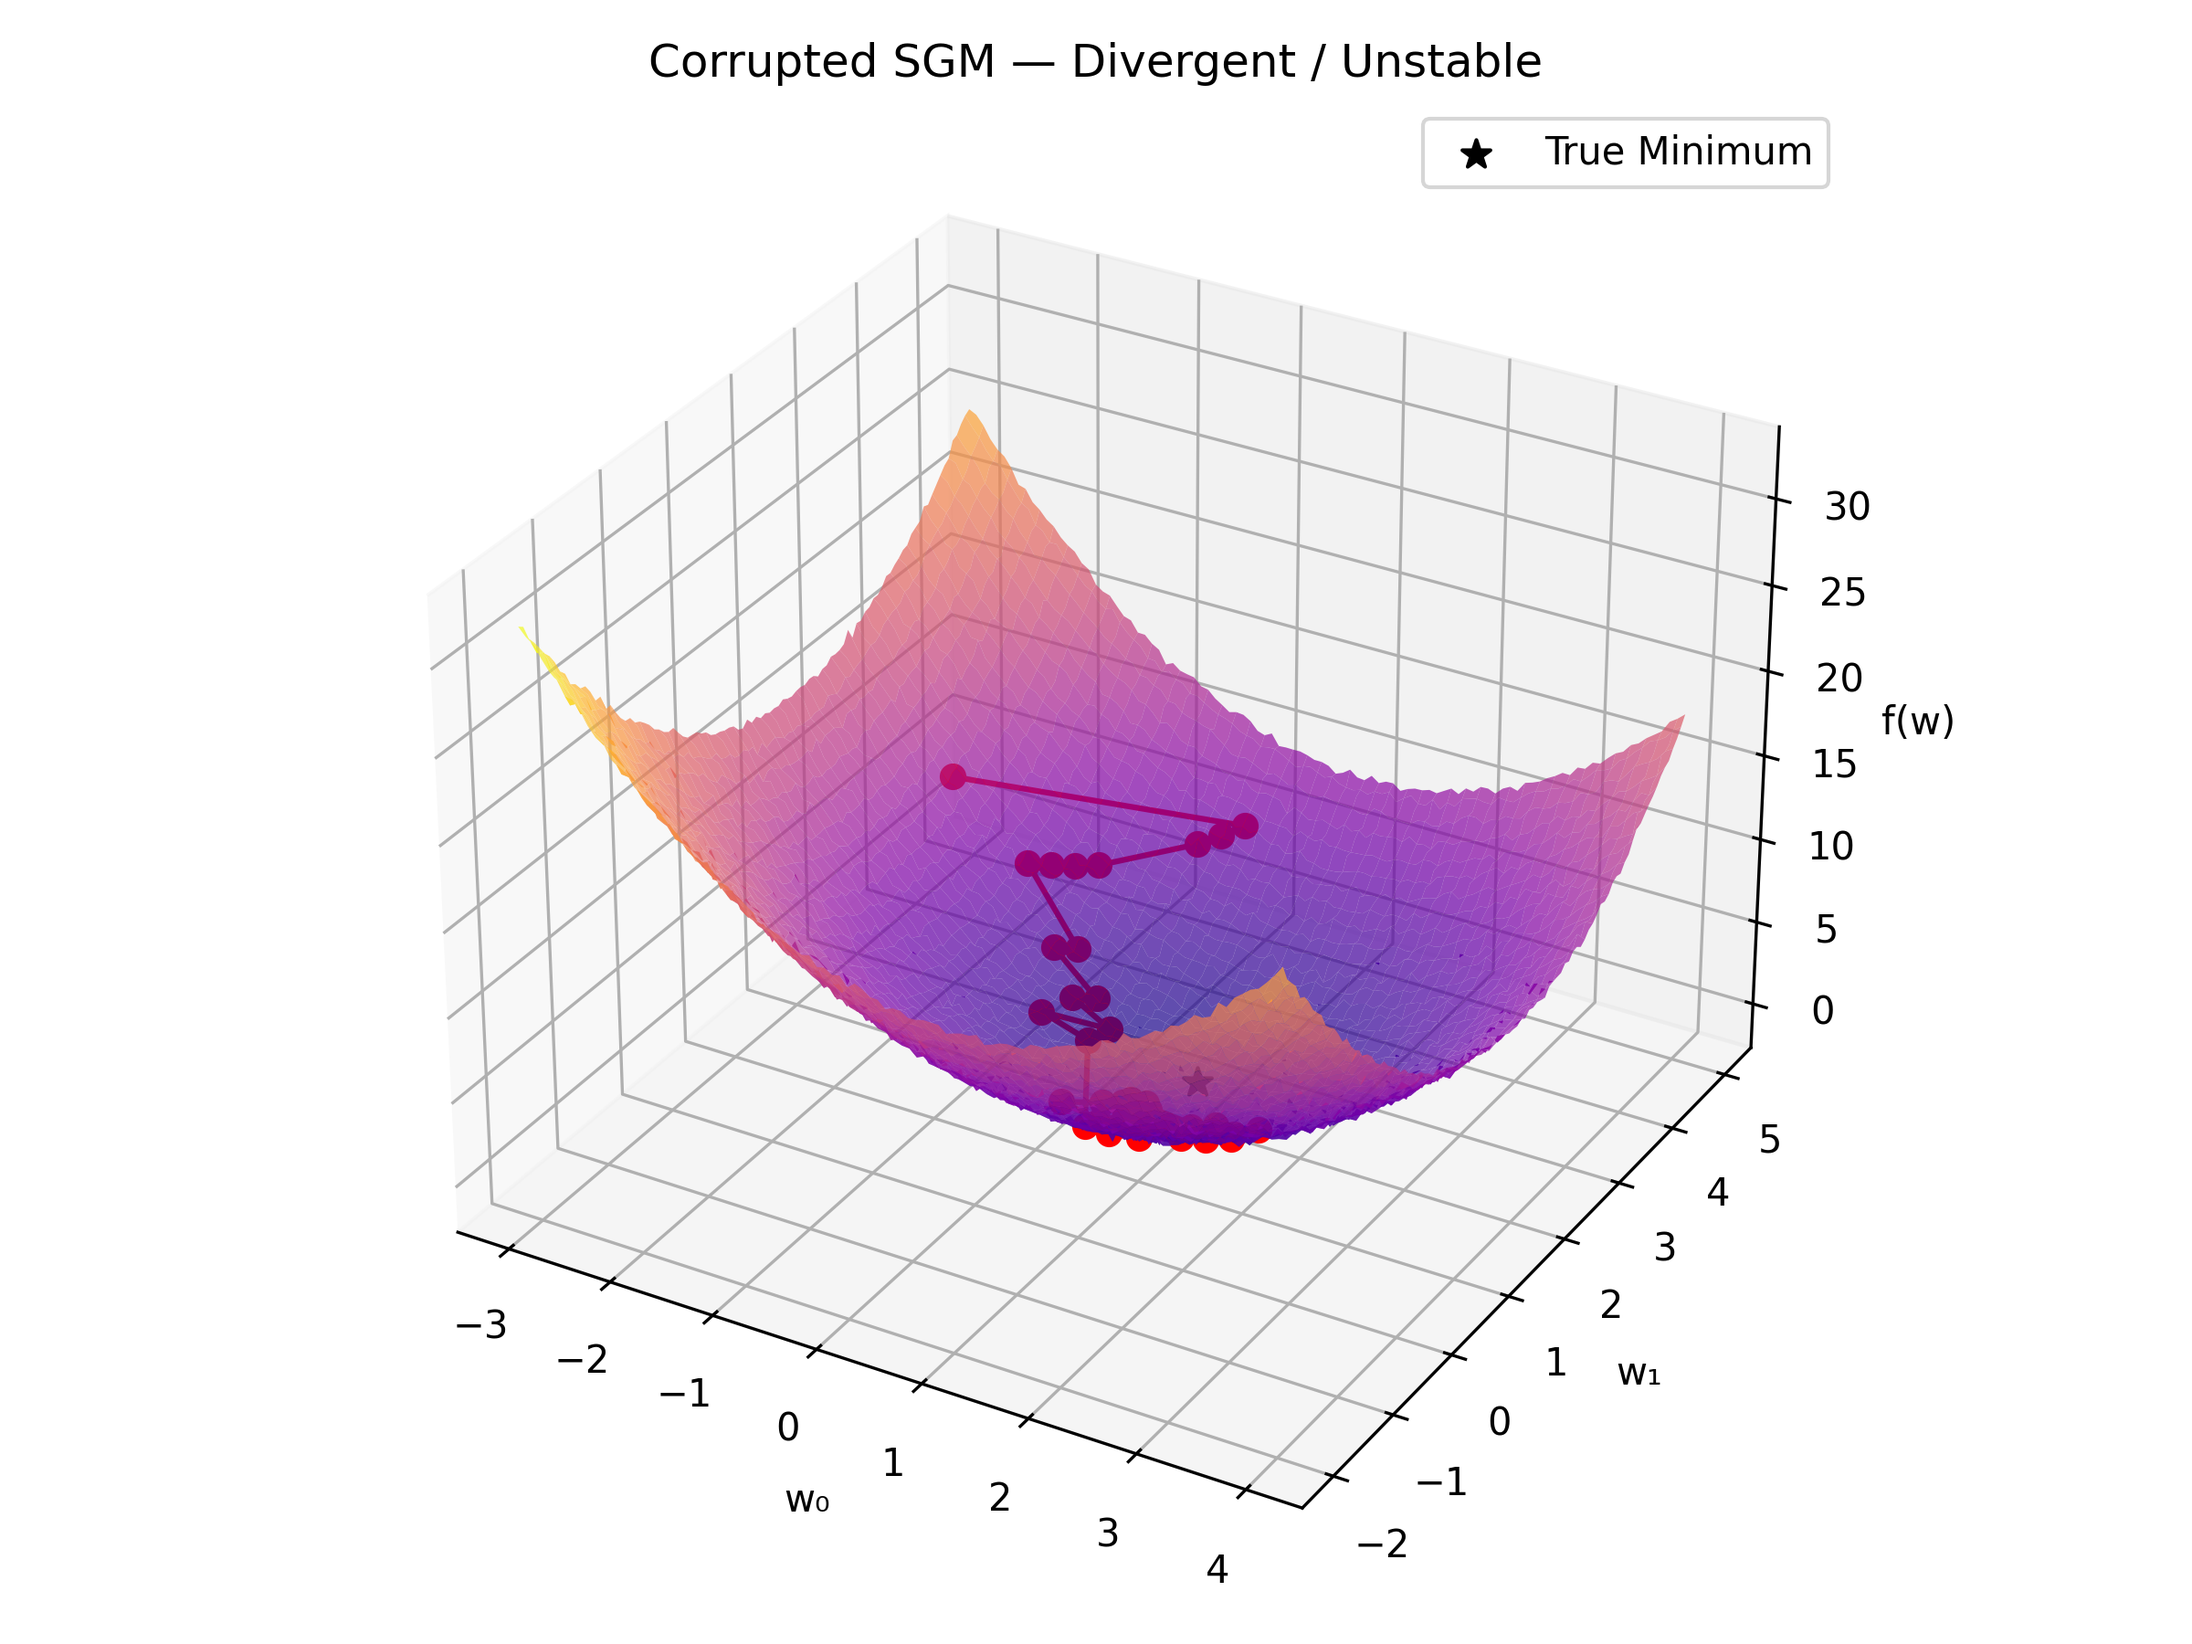
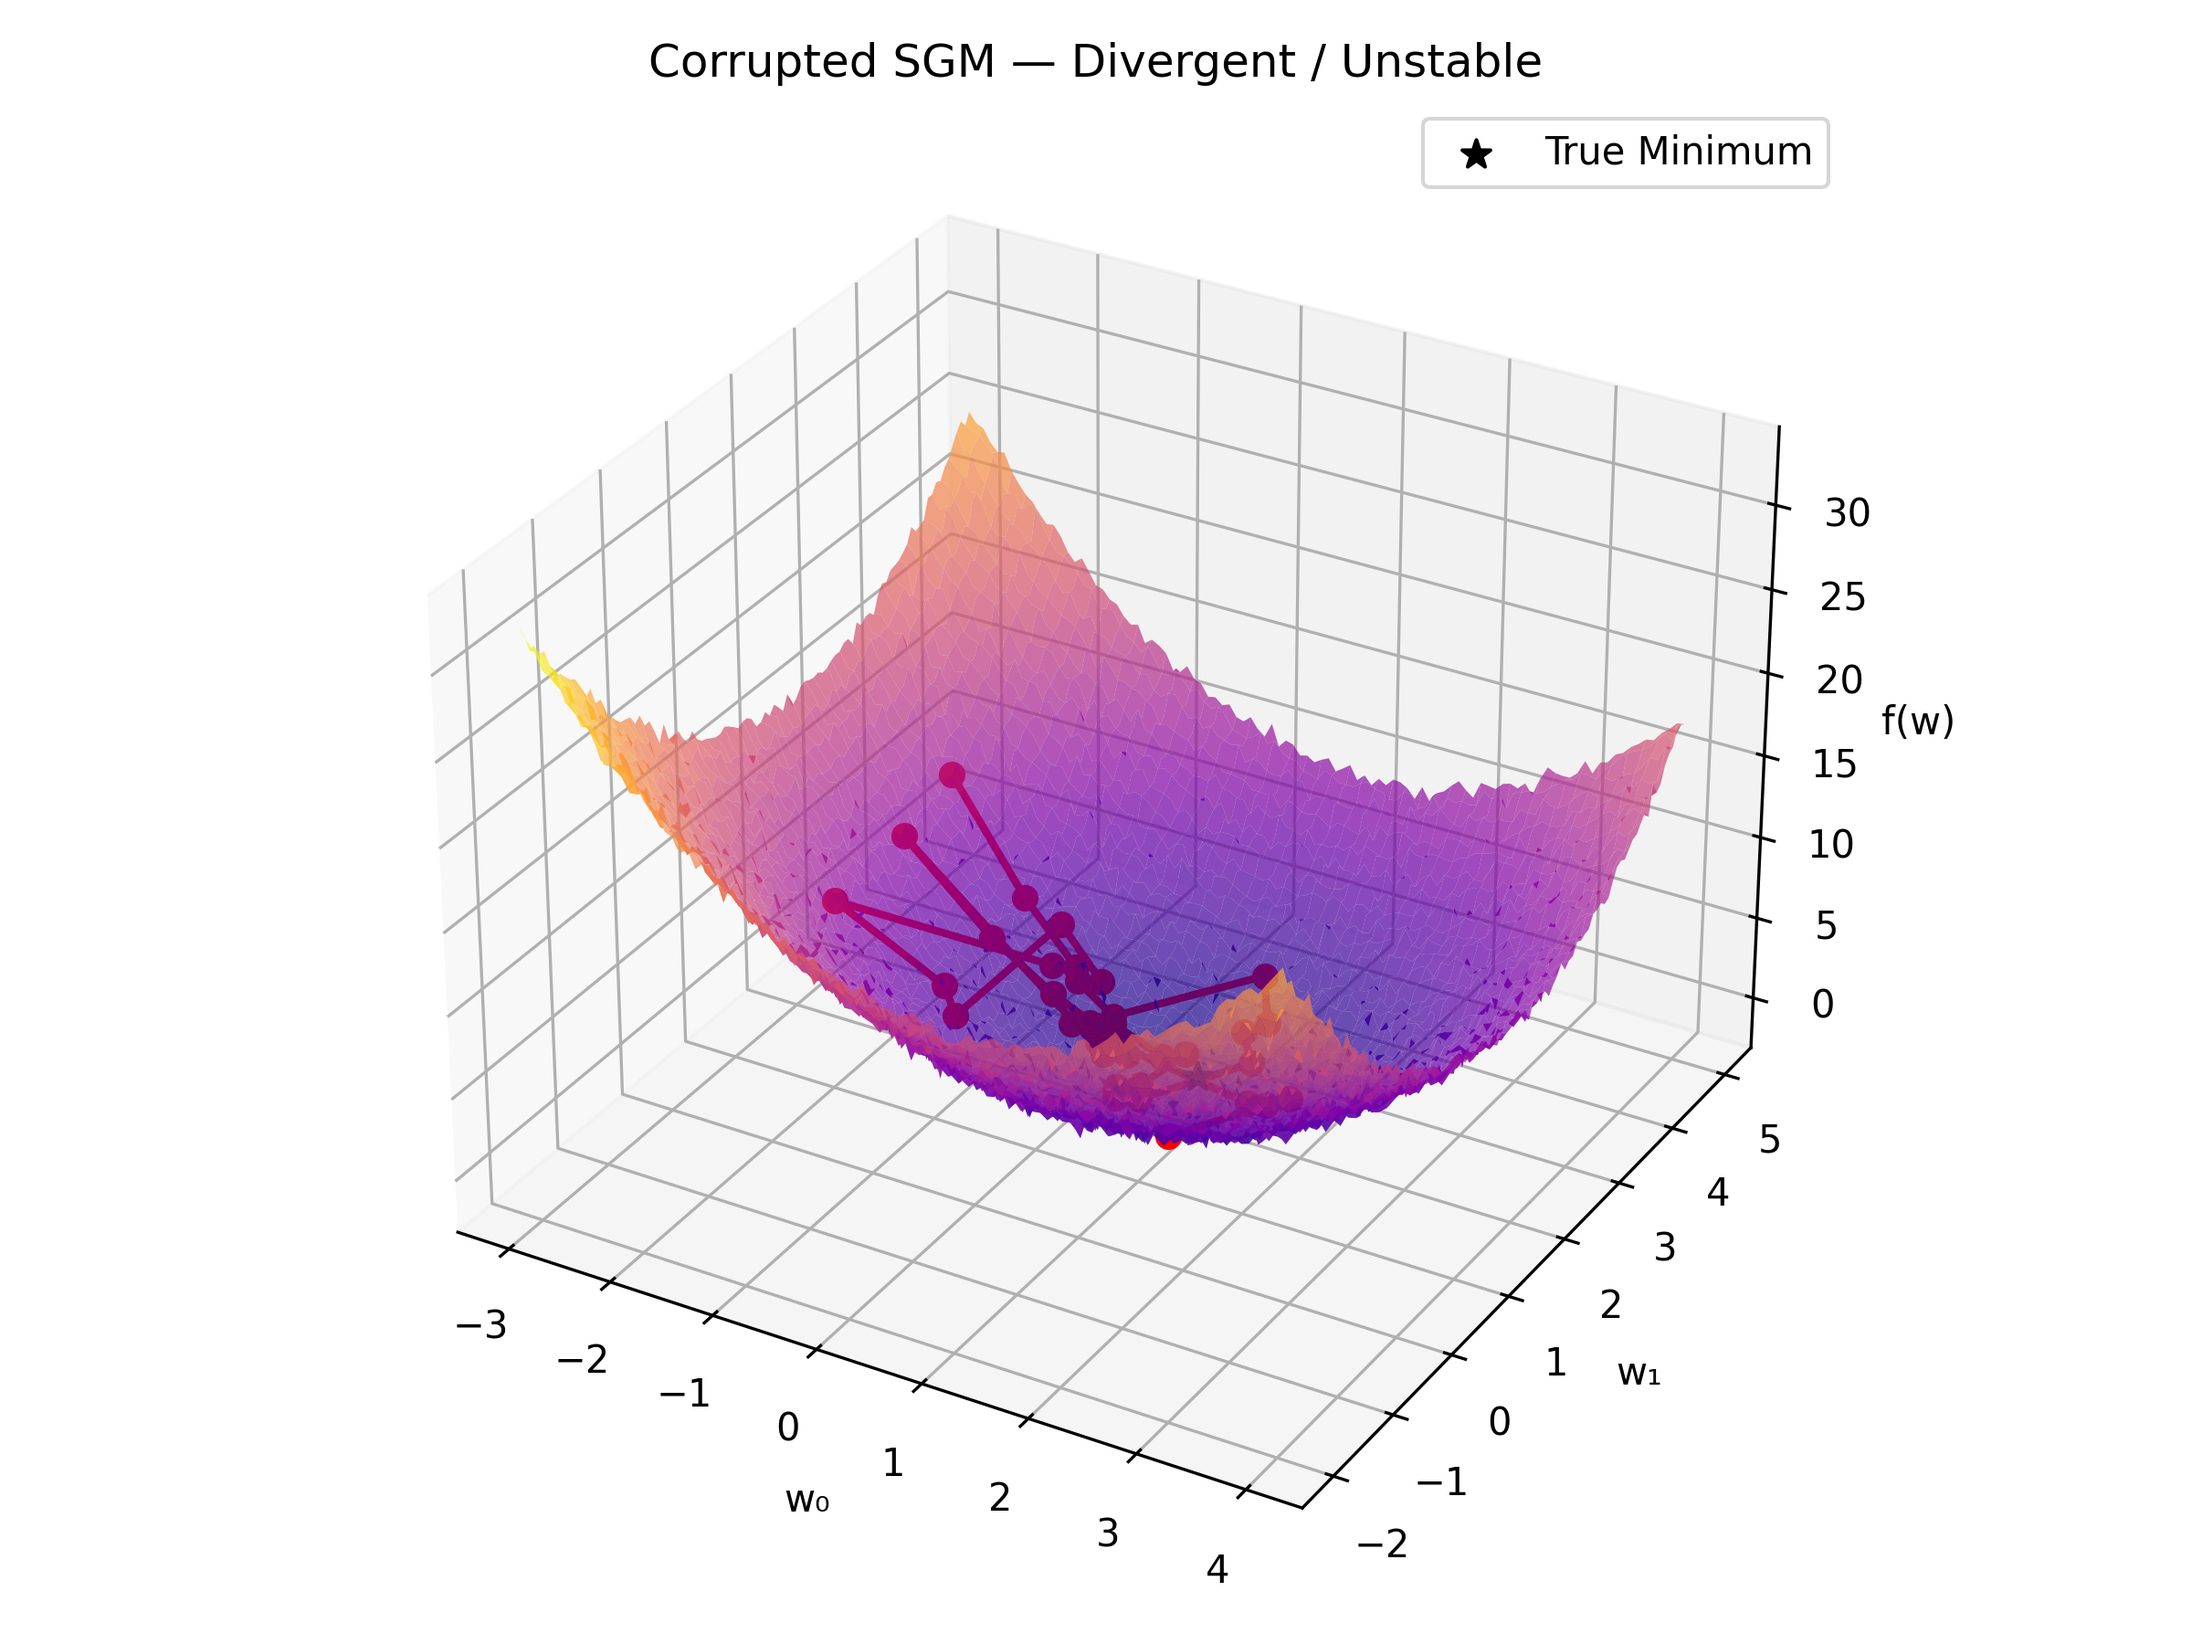
DRV: GM-SGM vs SGM

diff --git a/GM-SGM_vs_SGM/gm_vs_sgm.py b/GM-SGM_vs_SGM/gm_vs_sgm.py
@@ -42,25 +42,29 @@ def geometric_median(vectors, eps=1e-6, max_iter=100):
 # 3. Single SGM step
 # ====================================================
 
-def sgm_step(w, eta=0.1, eps=0.0, corruption=False):
+def sgm_step(w, eta=0.1, eps=0.0, corruption=False, corruption_rate=0.4):
+    """Single SGM step with optional gradient corruption."""
     g_val = g_value(w)
     grad = grad_f(w) if g_val <= eps else grad_g()
+
+    # Add corruption to gradients (simulate 40% noisy gradients)
     if corruption:
         noise = 2.0 * torch.randn_like(grad)
-        if np.random.rand() < 0.3:
-            grad = grad + noise * 3.0  # 30% corrupted spikes
+        if np.random.rand() < corruption_rate:
+            grad = grad + noise * 3.0
     return w - eta * grad
 
 # ====================================================
 # 4. Single GM-SGM step
 # ====================================================
 
-def gm_sgm_step(w, eta=0.1, eps=0.0, corruption=True, batch_size=10):
+def gm_sgm_step(w, eta=0.1, eps=0.0, corruption=True, batch_size=10, corruption_rate=0.4):
+    """Single GM-SGM step with geometric median aggregation."""
     grads = []
     for _ in range(batch_size):
         g_val = g_value(w)
         grad = grad_f(w) if g_val <= eps else grad_g()
-        if corruption and np.random.rand() < 0.3:
+        if corruption and np.random.rand() < corruption_rate:
             noise = 2.0 * torch.randn_like(grad)
             grad = grad + noise * 3.0
         grads.append(grad)
@@ -71,14 +75,14 @@ def gm_sgm_step(w, eta=0.1, eps=0.0, corruption=True, batch_size=10):
 # 5. Run a method
 # ====================================================
 
-def run_method(method="sgm", clean=True, steps=40, eta=0.15):
+def run_method(method="sgm", clean=True, steps=40, eta=0.15, corruption_rate=0.4):
     w = torch.tensor([-2.0, 3.0])
     traj, losses, gvals = [w.clone()], [f(w[0], w[1])], [g_value(w)]
     for _ in range(steps):
         if method == "gm-sgm":
-            w = gm_sgm_step(w, eta=eta, corruption=(not clean))
+            w = gm_sgm_step(w, eta=eta, corruption=(not clean), corruption_rate=corruption_rate)
         else:
-            w = sgm_step(w, eta=eta, corruption=(not clean))
+            w = sgm_step(w, eta=eta, corruption=(not clean), corruption_rate=corruption_rate)
         traj.append(w.clone())
         losses.append(f(w[0], w[1]))
         gvals.append(g_value(w))
@@ -114,8 +118,8 @@ Z = f(W0, W1)
 def plot_3d(traj, title, filename, color, cmap):
     fig = plt.figure(figsize=(8,6))
     ax = fig.add_subplot(111, projection='3d')
-    ax.plot_surface(W0, W1, Z + 0.5*np.random.randn(*Z.shape)*0.3, cmap=cmap, alpha=0.7)
-    ax.plot(traj[:,0], traj[:,1], f(traj[:,0], traj[:,1]), '-o', color=color)
+    ax.plot_surface(W0, W1, Z + 0.3*np.random.randn(*Z.shape), cmap=cmap, alpha=0.7)
+    ax.plot(traj[:,0], traj[:,1], f(traj[:,0], traj[:,1]), '-o', color=color, linewidth=2)
     ax.scatter(1, 2, f(1,2), c='black', s=60, marker='*', label='True Minimum')
     ax.set_xlabel('w₀'); ax.set_ylabel('w₁'); ax.set_zlabel('f(w)')
     ax.set_title(title)
@@ -132,14 +136,16 @@ plot_3d(traj_gm.numpy(), "GM-SGM — Robust Convergence under Corruption", "gm_s
 # 10. 2D Trajectory Plot (Comparison)
 # ====================================================
 
-plt.figure(figsize=(7,5))
-plt.plot(traj_clean[:,0], traj_clean[:,1], '-o', label='Clean SGM', color='blue')
-plt.plot(traj_corrupted[:,0], traj_corrupted[:,1], '-o', label='Corrupted SGM', color='red', alpha=0.7)
-plt.plot(traj_gm[:,0], traj_gm[:,1], '-o', label='GM-SGM (Robust)', color='green', alpha=0.9)
+plt.figure(figsize=(8,6))
+plt.plot(traj_clean[:,0], traj_clean[:,1], '-o', label='Clean SGM', color='blue', linewidth=2, markersize=5)
+plt.plot(traj_corrupted[:,0], traj_corrupted[:,1], '-o', label='Corrupted SGM', color='red', alpha=0.7, linewidth=2, markersize=5)
+plt.plot(traj_gm[:,0], traj_gm[:,1], '-o', label='GM-SGM (Robust)', color='green', alpha=0.9, linewidth=2, markersize=5)
 plt.scatter(1, 2, marker='*', color='black', s=150, label='True Minimum (1,2)')
-plt.xlabel("w₀"); plt.ylabel("w₁")
+plt.xlabel("w₀")
+plt.ylabel("w₁")
 plt.title("2D Trajectories — Clean SGM vs Corrupted SGM vs GM-SGM")
-plt.legend(); plt.grid(True)
+plt.legend()
+plt.grid(True)
 plt.tight_layout()
 plt.savefig("results/sgm_gmsgm_2d_comparison.png", dpi=300)
 plt.close()
